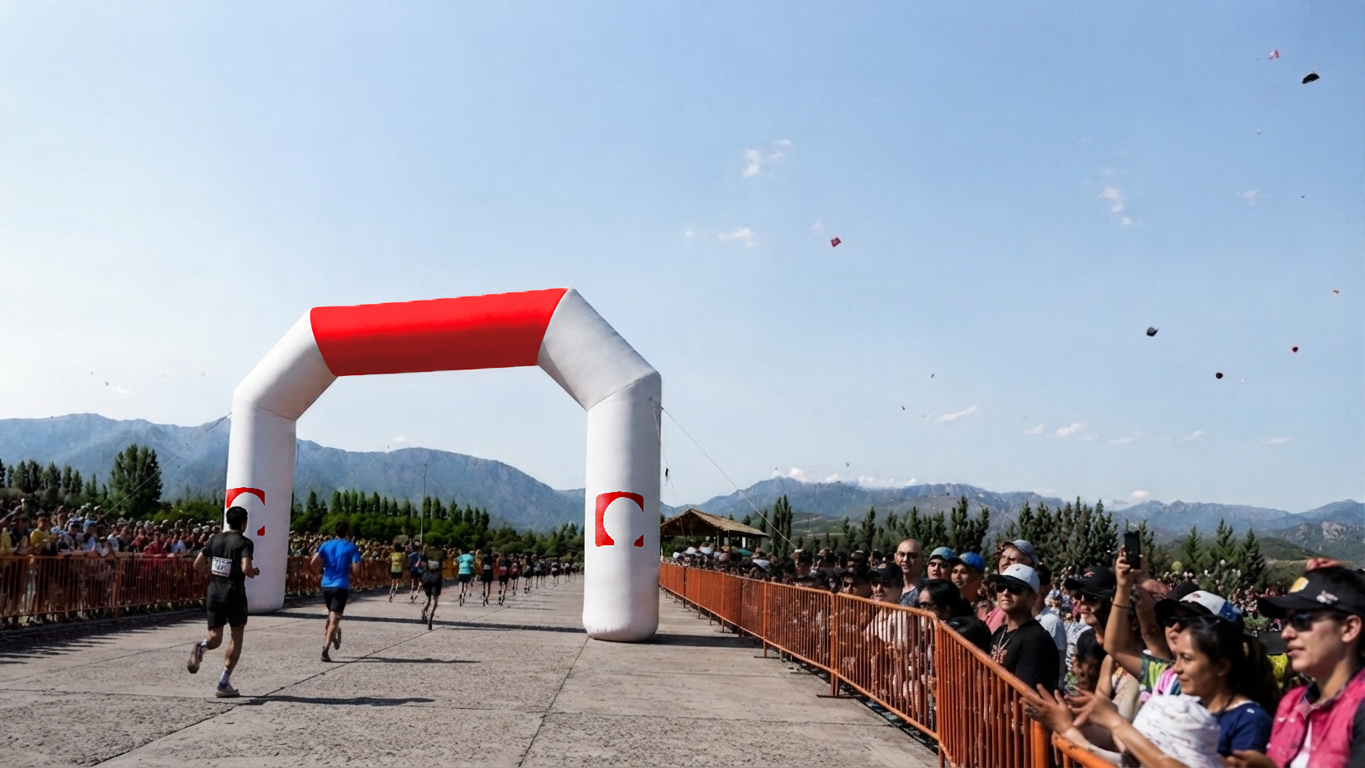
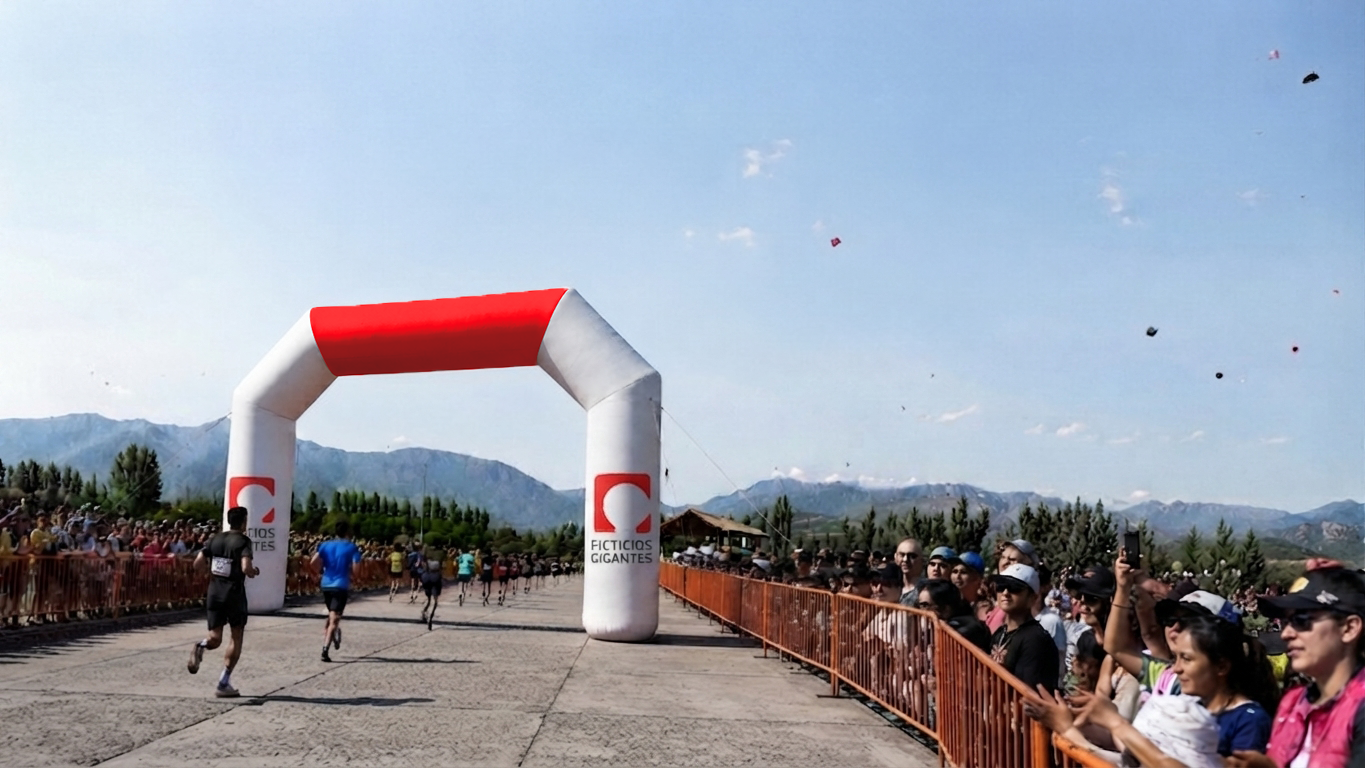
Ajustes 3

diff --git a/index.html b/index.html
@@ -176,9 +176,9 @@
   <!-- SERVICIOS -->
   <section id="servicios" style="background:#fff;margin-top:0">
     <div style="max-width:1220px;margin:0 auto;padding:clamp(36px,4.5vw,62px) clamp(16px,4vw,44px)">
-      <div data-reveal="" style="text-align:center;max-width:60ch;margin:0 auto">
+      <div data-reveal="" style="text-align:center;max-width:100%;margin:0 auto">
         <span style="display:inline-block;background:var(--ink);color:var(--cream);font-family:var(--font-display);font-weight:600;font-size:12px;letter-spacing:.16em;text-transform:uppercase;padding:7px 16px;border-radius:999px">Qué hacemos</span>
-        <h2 style="font-family:var(--font-display);font-weight:600;font-size:clamp(30px,4.4vw,58px);line-height:1;letter-spacing:-.015em;margin:20px auto 0;color:var(--ink)">Todo lo que tu marca o producto necesita.</h2>
+        <h2 style="font-family:var(--font-display);font-weight:600;font-size:clamp(30px,4.4vw,58px);line-height:1.02;letter-spacing:-.015em;margin:20px auto 0;max-width:100%;color:var(--ink)">Todo lo que tu marca<br>o producto necesita.</h2>
       </div>
       <div data-reveal="" data-delay="0.08" style="display:grid;grid-template-columns:repeat(auto-fit,minmax(220px,1fr));gap:clamp(16px,2vw,24px);align-items:start;margin-top:clamp(24px,3vw,38px)">
         <div style="background:var(--red-bright);border-radius:28px;overflow:hidden;color:#fff;margin-top:0;animation:fgFloatCard 5.4s ease-in-out infinite" style-hover="transform:translateY(-8px)">
@@ -190,7 +190,7 @@
           </div>
           <div style="padding:18px 22px 22px">
             <h3 style="font-family:var(--font-display);font-weight:600;font-size:22px;line-height:1.05;margin:0 0 8px">Inflables publicitarios</h3>
-            <p style="font-size:14.5px;line-height:1.55;color:rgba(255,255,255,.92);margin:0">Ideales para destacar en un evento, punto de venta o en la vía pública.</p>
+            <p style="font-size:14.5px;line-height:1.55;color:rgba(255,255,255,.92);margin:0">Para destacar en eventos, punto de venta o vía pública.</p>
           </div>
         </div>
         <div style="background:var(--red);border-radius:28px;overflow:hidden;color:#fff;margin-top:28px;animation:fgFloatCard 6s ease-in-out infinite .5s" style-hover="transform:translateY(-8px)">
@@ -202,7 +202,7 @@
           </div>
           <div style="padding:18px 22px 22px">
             <h3 style="font-family:var(--font-display);font-weight:600;font-size:22px;line-height:1.05;margin:0 0 8px">Galpones inflables</h3>
-            <p style="font-size:14.5px;line-height:1.55;color:rgba(255,255,255,.92);margin:0">Estructura inflable y autónoma. Ideales para emergencias, clínicas móviles o salas de espera, con equipamiento personalizable.</p>
+            <p style="font-size:14.5px;line-height:1.55;color:rgba(255,255,255,.92);margin:0">Estructuras autónomas para emergencias, clínicas móviles o salas de espera.</p>
           </div>
         </div>
         <div style="background:var(--red-mid);border-radius:28px;overflow:hidden;color:#fff;margin-top:0;animation:fgFloatCard 5s ease-in-out infinite 1s" style-hover="transform:translateY(-8px)">
@@ -214,7 +214,7 @@
           </div>
           <div style="padding:18px 22px 22px">
             <h3 style="font-family:var(--font-display);font-weight:600;font-size:22px;line-height:1.05;margin:0 0 8px">Carpas para eventos</h3>
-            <p style="font-size:14.5px;line-height:1.55;color:rgba(255,255,255,.92);margin:0">Carpas de diseño elegante, ideales para eventos y atención de público.</p>
+            <p style="font-size:14.5px;line-height:1.55;color:rgba(255,255,255,.92);margin:0">Diseño elegante para eventos y atención de público.</p>
           </div>
         </div>
         <div style="background:var(--red-deep);border-radius:28px;overflow:hidden;color:#fff;margin-top:28px;animation:fgFloatCard 5.7s ease-in-out infinite 1.5s" style-hover="transform:translateY(-8px)">
@@ -226,7 +226,7 @@
           </div>
           <div style="padding:18px 22px 22px">
             <h3 style="font-family:var(--font-display);font-weight:600;font-size:22px;line-height:1.05;margin:0 0 8px">Formas especiales</h3>
-            <p style="font-size:14.5px;line-height:1.55;color:rgba(255,255,255,.92);margin:0">Réplicas de productos, corpóreos gigantes, logos de empresas y más, completamente a medida.</p>
+            <p style="font-size:14.5px;line-height:1.55;color:rgba(255,255,255,.92);margin:0">Réplicas de productos, corpóreos y logos, todo a medida.</p>
           </div>
         </div>
       </div>
@@ -281,8 +281,8 @@
           <div style="display:flex;flex-direction:column;background:#fff;border:1px solid var(--cream-2);border-radius:22px;overflow:hidden;box-shadow:0 12px 30px rgba(42,32,28,.06);transition:transform .3s,box-shadow .3s" style-hover="transform:translateY(-8px);box-shadow:0 22px 44px rgba(42,32,28,.12)">
             <sc-if value="{{ p.hasPhotos }}" hint-placeholder-val="{{ false }}">
               <a href="{{ p.href }}" aria-label="Ver {{ p.name }}" style="display:block;width:100%;text-decoration:none;color:inherit">
-                <div style="position:relative;aspect-ratio:4/3;overflow:hidden;background:var(--red-tint)">
-                  <img src="{{ p.firstPhoto }}" alt="{{ p.name }}" loading="lazy" style="width:100%;height:100%;object-fit:cover;display:block;transition:transform .4s ease" style-hover="transform:scale(1.06)">
+                <div style="position:relative;aspect-ratio:1/1;overflow:hidden;background:#fff">
+                  <img src="{{ p.firstPhoto }}" alt="{{ p.name }}" loading="lazy" style="width:100%;height:100%;object-fit:contain;display:block;transition:transform .4s ease" style-hover="transform:scale(1.04)">
                   <span style="position:absolute;right:10px;bottom:10px;display:inline-flex;align-items:center;gap:6px;background:rgba(33,26,24,.74);color:#fff;font-family:var(--font-display);font-weight:600;font-size:12px;padding:6px 11px;border-radius:999px">
                     <svg width="14" height="14" viewBox="0 0 24 24" fill="none" stroke="currentColor" stroke-width="1.9" stroke-linecap="round" stroke-linejoin="round"><rect width="18" height="18" x="3" y="3" rx="2"></rect><circle cx="9" cy="9" r="2"></circle><path d="m21 15-3.086-3.086a2 2 0 0 0-2.828 0L6 21"></path></svg>
                     {{ p.count }}
@@ -656,7 +656,7 @@ class Component extends DCLogic {
         name: p.name, id: 'prod-' + (i + 1), photos, desc: p.desc,
         href: 'producto.html?p=' + p.slug,
         hasPhotos: photos.length > 0, noPhotos: photos.length === 0,
-        firstPhoto: photos[0] || '', count: photos.length,
+        firstPhoto: p.cover || photos[0] || '', count: photos.length,
         onOpen: () => this.openLightbox(p.name, photos),
       };
     });

diff --git a/products.js b/products.js
@@ -1,76 +1,76 @@
 window.FG_PRODUCTS = [
   {
-    slug: 'tuneles', name: 'Túneles',
+    slug: 'tuneles', cover: 'img/cover-tuneles.png', name: 'Túneles',
     desc: 'Túneles inflables de acceso e ingreso, ideales para eventos deportivos y activaciones de marca.',
     photos: ['img/tunel-1.jpg', 'img/tunel-2.png', 'img/tunel-3.jpg', 'img/tunel-4.jpg', 'img/tunel-5.jpg', 'img/tunel-6.jpg', 'img/tunel-7.jpg', 'img/tunel-8.jpg', 'img/tunel-9.jpg'],
   },
   {
-    slug: 'peras', name: 'Peras',
+    slug: 'peras', cover: 'img/cover-peras.png', name: 'Peras',
     desc: 'Peras publicitarias de gran altura para destacar tu marca desde lejos.',
     photos: ['img/pera-1.jpg', 'img/pera-2.jpg', 'img/pera-3.png', 'img/pera-4.png', 'img/pera-5.png', 'img/pera-6.png', 'img/pera-7.png', 'img/pera-8.png', 'img/pera-9.png', 'img/pera-10.png'],
   },
   {
-    slug: 'meta', name: 'Meta',
+    slug: 'meta', cover: 'img/cover-meta.jpg', name: 'Meta',
     desc: 'Metas y arcos inflables para largadas, llegadas y puntos de control.',
     photos: ['img/meta-1.jpg', 'img/meta-2.jpg', 'img/meta-3.jpg', 'img/meta-4.jpg', 'img/meta-5.jpg', 'img/meta-6.jpg', 'img/meta-7.jpg', 'img/meta-8.jpg', 'img/meta-9.jpg', 'img/meta-10.jpg'],
   },
   {
-    slug: 'globos-con-helio', name: 'Globos con helio',
+    slug: 'globos-con-helio', cover: 'img/cover-globos.jpg', name: 'Globos con helio',
     desc: 'Globos con helio flotantes para exteriores, visibles a gran distancia.',
     photos: ['img/globo-1.jpg', 'img/globo-2.jpg', 'img/globo-3.jpg', 'img/globo-4.jpg', 'img/globo-5.jpg', 'img/globo-6.jpg', 'img/globo-7.jpg', 'img/globo-8.jpg', 'img/globo-9.jpg', 'img/globo-10.jpg'],
   },
   {
-    slug: 'cilindros', name: 'Cilindros',
+    slug: 'cilindros', cover: 'img/cover-cilindros.png', name: 'Cilindros',
     desc: 'Cilindros y tótems inflables versátiles para señalética y punto de venta.',
     photos: ['img/cil-1.jpg', 'img/cil-2.jpg', 'img/cil-3.jpg', 'img/cil-4.jpg', 'img/cil-5.jpg', 'img/cil-6.jpg', 'img/cil-7.jpg', 'img/cil-8.jpg', 'img/cil-9.jpg', 'img/cil-10.jpg'],
   },
   {
-    slug: 'pelotas', name: 'Pelotas',
+    slug: 'pelotas', cover: 'img/cover-pelotas.jpg', name: 'Pelotas',
     desc: 'Pelotas gigantes personalizadas para activaciones y decoración de eventos.',
     photos: ['img/pelota-1.png', 'img/pelota-2.jpg', 'img/pelota-3.jpg', 'img/pelota-4.jpg', 'img/pelota-5.jpg', 'img/pelota-6.jpg', 'img/pelota-7.jpg', 'img/pelota-8.jpg', 'img/pelota-9.jpg', 'img/pelota-10.jpg'],
   },
   {
-    slug: 'carpas-paris', name: 'Carpas París',
+    slug: 'carpas-paris', cover: 'img/cover-paris.jpg', name: 'Carpas París',
     desc: 'Carpas inflables modelo París, elegantes para eventos y atención de público.',
     photos: ['img/paris-1.jpg', 'img/paris-2.png', 'img/paris-3.jpg', 'img/paris-4.jpg', 'img/paris-5.png', 'img/paris-6.jpg', 'img/paris-7.png', 'img/paris-8.png', 'img/paris-9.jpg', 'img/paris-10.png'],
   },
   {
-    slug: 'carpas-pulpos', name: 'Carpas Pulpos',
+    slug: 'carpas-pulpos', cover: 'img/cover-pulpos.jpg', name: 'Carpas Pulpos',
     desc: 'Carpas tipo pulpo de montaje rápido, perfectas para ferias y stands.',
     photos: ['img/pulpo-1.jpg', 'img/pulpo-2.jpg', 'img/pulpo-3.jpg', 'img/pulpo-4.jpg', 'img/pulpo-5.jpg', 'img/pulpo-6.jpg', 'img/pulpo-7.jpg', 'img/pulpo-8.jpg', 'img/pulpo-9.jpg', 'img/pulpo-10.jpeg'],
   },
   {
-    slug: 'galpones', name: 'Galpones',
+    slug: 'galpones', cover: 'img/cover-galpones.png', name: 'Galpones',
     desc: 'Galpones inflables autónomos de gran superficie, hasta 80 m².',
     photos: ['img/galpon-1.jpg', 'img/galpon-2.jpg', 'img/galpon-3.jpg', 'img/galpon-4.jpg', 'img/galpon-5.jpeg', 'img/galpon-6.jpg', 'img/galpon-7.jpg', 'img/galpon-8.jpg', 'img/galpon-9.png'],
   },
   {
-    slug: 'formas', name: 'Formas',
+    slug: 'formas', cover: 'img/cover-formas.png', name: 'Formas',
     desc: 'Réplicas y formas especiales a medida: productos, corpóreos y logos.',
     photos: ['img/forma-1.jpg', 'img/forma-2.jpeg', 'img/forma-3.jpeg', 'img/forma-4.jpg', 'img/forma-5.jpg', 'img/forma-6.jpg', 'img/forma-7.jpg', 'img/forma-8.jpg', 'img/forma-9.jpg', 'img/forma-10.jpeg'],
   },
   {
-    slug: 'cubos-y-rectangulos', name: 'Cubos y Rectángulos',
+    slug: 'cubos-y-rectangulos', cover: 'img/cover-cubos.jpg', name: 'Cubos y Rectángulos',
     desc: 'Cubos y rectángulos inflables para exhibición y branding de marca.',
     photos: ['img/cubo-1.jpg', 'img/cubo-2.jpg', 'img/cubo-3.jpg', 'img/cubo-4.jpg', 'img/cubo-5.jpg', 'img/cubo-6.jpg', 'img/cubo-7.jpg', 'img/cubo-8.jpg', 'img/cubo-9.jpg', 'img/cubo-10.jpg'],
   },
   {
-    slug: 'bailarines', name: 'Bailarines',
+    slug: 'bailarines', cover: 'img/cover-bailarines.png', name: 'Bailarines',
     desc: 'Bailarines de viento animados que captan la atención al instante.',
     photos: ['img/bailarin-1.png', 'img/bailarin-2.png', 'img/bailarin-3.png', 'img/bailarin-4.png', 'img/bailarin-5.png', 'img/bailarin-6.png', 'img/bailarin-7.png', 'img/bailarin-8.png', 'img/bailarin-9.png', 'img/bailarin-10.png'],
   },
   {
-    slug: 'pantallas', name: 'Pantallas',
+    slug: 'pantallas', cover: 'img/cover-pantallas.png', name: 'Pantallas',
     desc: 'Pantallas inflables para proyección en eventos al aire libre.',
     photos: ['img/pantalla-1.png', 'img/pantalla-2.jpg', 'img/pantalla-3.jpg', 'img/pantalla-4.jpg', 'img/pantalla-5.jpg'],
   },
   {
-    slug: 'peras-2', name: 'Peras',
+    slug: 'peras-2', cover: 'img/cover-peras.png', name: 'Peras',
     desc: 'Peras publicitarias de gran altura para destacar tu marca desde lejos.',
     photos: ['img/pera-1.jpg', 'img/pera-2.jpg', 'img/pera-3.png', 'img/pera-4.png', 'img/pera-5.png', 'img/pera-6.png', 'img/pera-7.png', 'img/pera-8.png', 'img/pera-9.png', 'img/pera-10.png'],
   },
   {
-    slug: 'meta-2', name: 'Meta',
+    slug: 'meta-2', cover: 'img/cover-meta.jpg', name: 'Meta',
     desc: 'Metas y arcos inflables para largadas, llegadas y puntos de control.',
     photos: ['img/meta-1.jpg', 'img/meta-2.jpg', 'img/meta-3.jpg', 'img/meta-4.jpg', 'img/meta-5.jpg', 'img/meta-6.jpg', 'img/meta-7.jpg', 'img/meta-8.jpg', 'img/meta-9.jpg', 'img/meta-10.jpg'],
   },

diff --git a/producto.html b/producto.html
@@ -48,13 +48,13 @@
 
   <nav style="position:sticky;top:0;z-index:70;background:rgba(255,255,255,.92);backdrop-filter:blur(10px);border-bottom:1px solid var(--cream-2)">
     <div style="max-width:1220px;margin:0 auto;padding:10px clamp(16px,4vw,44px);display:flex;align-items:center;gap:20px">
-      <a href="index.html" style="display:inline-flex;align-items:center;text-decoration:none;margin-right:auto">
+      <a href="index%20v2.html" style="display:inline-flex;align-items:center;text-decoration:none;margin-right:auto">
         <img src="img/logo.png" alt="Ficticios Gigantes" style="height:46px;width:auto;display:block">
       </a>
-      <a href="index.html#servicios" data-navlink="" style="text-decoration:none;font-family:var(--font-display);font-weight:500;font-size:16px;color:var(--ink)">Servicios</a>
-      <a href="index.html#productos" data-navlink="" style="text-decoration:none;font-family:var(--font-display);font-weight:500;font-size:16px;color:var(--ink)">Productos</a>
-      <a href="index.html#nosotros" data-navlink="" style="text-decoration:none;font-family:var(--font-display);font-weight:500;font-size:16px;color:var(--ink)">Nosotros</a>
-      <a href="index.html#inicio" style="display:inline-flex;align-items:center;gap:9px;text-decoration:none;background:var(--ink);color:#fff;font-family:var(--font-display);font-weight:500;font-size:15px;padding:9px 10px 9px 20px;border-radius:999px" style-hover="background:var(--red)">
+      <a href="index%20v2.html#servicios" data-navlink="" style="text-decoration:none;font-family:var(--font-display);font-weight:500;font-size:16px;color:var(--ink)">Servicios</a>
+      <a href="index%20v2.html#productos" data-navlink="" style="text-decoration:none;font-family:var(--font-display);font-weight:500;font-size:16px;color:var(--ink)">Productos</a>
+      <a href="index%20v2.html#nosotros" data-navlink="" style="text-decoration:none;font-family:var(--font-display);font-weight:500;font-size:16px;color:var(--ink)">Nosotros</a>
+      <a href="index%20v2.html#inicio" style="display:inline-flex;align-items:center;gap:9px;text-decoration:none;background:var(--ink);color:#fff;font-family:var(--font-display);font-weight:500;font-size:15px;padding:9px 10px 9px 20px;border-radius:999px" style-hover="background:var(--red)">
         Cotizar
         <span style="width:28px;height:28px;border-radius:50%;background:#fff;color:var(--ink);display:grid;place-items:center"><svg width="15" height="15" viewBox="0 0 24 24" fill="none" stroke="currentColor" stroke-width="2" stroke-linecap="round" stroke-linejoin="round"><path d="M5 12h14"></path><path d="m12 5 7 7-7 7"></path></svg></span>
       </a>
@@ -63,7 +63,7 @@
 
   <main style="max-width:1220px;margin:0 auto;padding:clamp(20px,3vw,34px) clamp(16px,4vw,44px) clamp(40px,6vw,80px)">
     <div style="display:flex;align-items:center;gap:8px;font-size:13.5px;color:var(--muted);margin-bottom:clamp(18px,2.4vw,30px)">
-      <a href="index.html#productos" style="color:var(--muted);text-decoration:none" style-hover="color:var(--red)">Productos</a>
+      <a href="index%20v2.html#productos" style="color:var(--muted);text-decoration:none" style-hover="color:var(--red)">Productos</a>
       <span>/</span>
       <span style="color:var(--ink)">{{ name }}</span>
     </div>
@@ -112,7 +112,7 @@
         </div>
 
         <div style="display:flex;flex-wrap:wrap;align-items:center;gap:14px;margin-top:30px">
-          <a href="index.html#inicio" style="display:inline-flex;align-items:center;gap:11px;text-decoration:none;background:var(--red);color:#fff;font-family:var(--font-display);font-weight:600;font-size:16px;padding:12px 13px 12px 26px;border-radius:999px;box-shadow:0 14px 30px rgba(226,33,28,.32)" style-hover="background:var(--red-mid)">
+          <a href="index%20v2.html#inicio" style="display:inline-flex;align-items:center;gap:11px;text-decoration:none;background:var(--red);color:#fff;font-family:var(--font-display);font-weight:600;font-size:16px;padding:12px 13px 12px 26px;border-radius:999px;box-shadow:0 14px 30px rgba(226,33,28,.32)" style-hover="background:var(--red-mid)">
             Cotizar este producto
             <span style="width:34px;height:34px;border-radius:50%;background:#fff;color:var(--red);display:grid;place-items:center"><svg width="17" height="17" viewBox="0 0 24 24" fill="none" stroke="currentColor" stroke-width="2" stroke-linecap="round" stroke-linejoin="round"><path d="M5 12h14"></path><path d="m12 5 7 7-7 7"></path></svg></span>
           </a>
@@ -126,7 +126,7 @@
     <section style="margin-top:clamp(52px,7vw,104px)">
       <div style="display:flex;align-items:end;justify-content:space-between;gap:20px;margin-bottom:clamp(20px,2.6vw,32px)">
         <h2 style="font-family:var(--font-display);font-weight:600;font-size:clamp(24px,3vw,38px);line-height:1;letter-spacing:-.015em;margin:0;color:var(--ink)">También puede interesarte</h2>
-        <a href="index.html#productos" style="display:inline-flex;align-items:center;gap:7px;text-decoration:none;color:var(--red);font-family:var(--font-display);font-weight:600;font-size:15px;white-space:nowrap" style-hover="color:var(--red-deep)">
+        <a href="index%20v2.html#productos" style="display:inline-flex;align-items:center;gap:7px;text-decoration:none;color:var(--red);font-family:var(--font-display);font-weight:600;font-size:15px;white-space:nowrap" style-hover="color:var(--red-deep)">
           Ver todos
           <svg width="16" height="16" viewBox="0 0 24 24" fill="none" stroke="currentColor" stroke-width="2" stroke-linecap="round" stroke-linejoin="round"><path d="M5 12h14"></path><path d="m12 5 7 7-7 7"></path></svg>
         </a>

diff --git a/gracias.html b/gracias.html
@@ -32,7 +32,7 @@
 
 <div style="--font-display:'Sora',sans-serif;--font-body:'Sen',sans-serif;--red:#e2211c;--red-mid:#c81b18;--red-tint:#fbe6e3;--cream:#f6efe4;--ink:#2a201c;--muted:#6f635a;position:relative;min-height:100vh;box-sizing:border-box;background:transparent;color:var(--ink);font-family:var(--font-body);display:flex;flex-direction:column;align-items:center;justify-content:center;text-align:center;padding:clamp(24px,5vw,64px);overflow:hidden">
 
-  <a href="index.html" style="position:absolute;top:clamp(18px,3vw,32px);left:clamp(16px,4vw,44px);display:inline-flex;align-items:center;text-decoration:none">
+  <a href="index%20v2.html" style="position:absolute;top:clamp(18px,3vw,32px);left:clamp(16px,4vw,44px);display:inline-flex;align-items:center;text-decoration:none">
     <img src="img/logo.png" alt="Ficticios Gigantes" style="height:46px;width:auto;display:block">
   </a>
 
@@ -48,7 +48,7 @@
   </div>
   <h1 style="font-family:var(--font-display);font-weight:600;font-size:clamp(24px,3.2vw,40px);line-height:1.05;letter-spacing:-.015em;color:var(--ink);margin:clamp(20px,3vw,36px) 0 0">Recibimos tu mensaje.</h1>
   <p style="font-size:clamp(15px,1.4vw,18px);line-height:1.6;color:var(--muted);margin:14px 0 0;max-width:48ch">Nos pondremos en contacto contigo a la brevedad posible para conversar tu próximo gigante.</p>
-  <a href="index.html" style="margin-top:clamp(26px,3vw,38px);display:inline-flex;align-items:center;gap:11px;text-decoration:none;background:var(--ink);color:var(--cream);font-family:var(--font-display);font-weight:600;font-size:16px;padding:11px 12px 11px 26px;border-radius:999px" style-hover="background:var(--red)">
+  <a href="index%20v2.html" style="margin-top:clamp(26px,3vw,38px);display:inline-flex;align-items:center;gap:11px;text-decoration:none;background:var(--ink);color:var(--cream);font-family:var(--font-display);font-weight:600;font-size:16px;padding:11px 12px 11px 26px;border-radius:999px" style-hover="background:var(--red)">
     Volver al inicio
     <span style="width:32px;height:32px;border-radius:50%;background:var(--red);color:#fff;display:grid;place-items:center"><svg width="16" height="16" viewBox="0 0 24 24" fill="none" stroke="currentColor" stroke-width="2" stroke-linecap="round" stroke-linejoin="round"><path d="M5 12h14"></path><path d="m12 5 7 7-7 7"></path></svg></span>
   </a>
